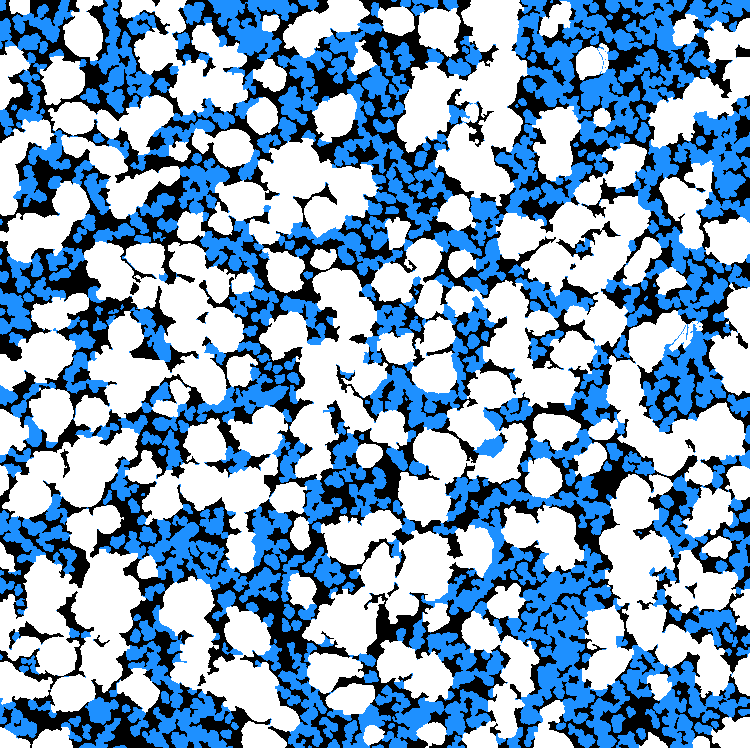
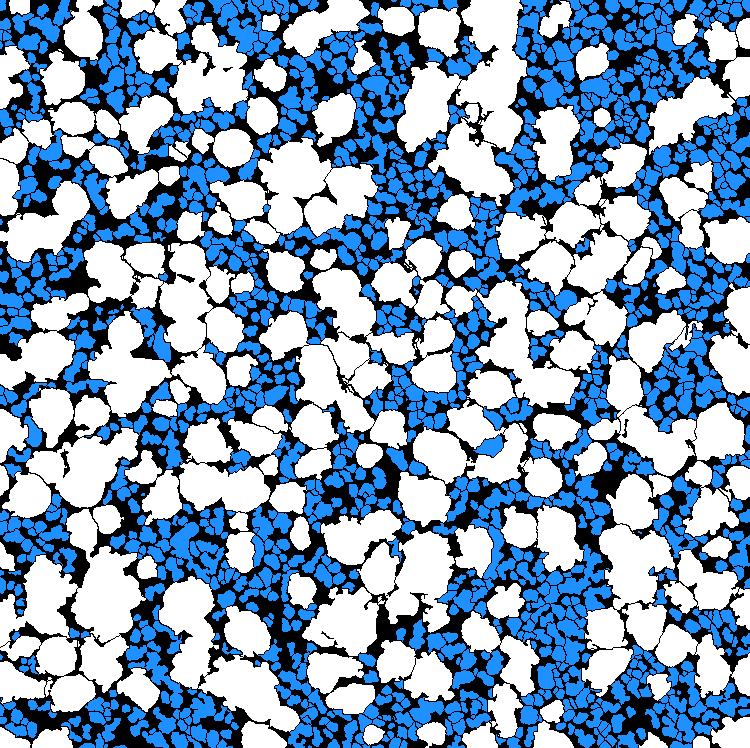
Fix shaded faces in sample3's key and draw a pore line between particles

diff --git a/docs/dino-features.md b/docs/dino-features.md
@@ -71,7 +71,7 @@ The seeds come from brightness, so particle/pore/binder favour brightness featur
 |---|---|---|
 | 1 | particle (white), pore (black), crack (red); every pixel scored | `make_truth.py`, then binder merged into pore; unscored specks under 30 px take their nearest label, wider unscored areas split at the particle edge level (141.5). Cracks are then thinned to pixels at least 12 gray levels darker than a 5 px closing of the image; crack lines lying mostly along pore are pore. Thin pore (half-width ≤ 2.5 px) more than 3 px inside a particle outline (4 px closing) is crack. Crack lines of at least 10 px within 2 px of a large particle's convex outline (pieces of 2 000 px or more) that open onto pore are gaps between particles and become pore. Second pass with sample2's gap tools (cracks counted as part of their particle for connectivity): line-filter cut with thresholds scaled by the particle–pore contrast (×1.68), rim revert, pruning and thinning; 12 hand cuts between big particles and the grain clusters touching them; then the faintest 48 of 154 added seams checked by eye and 25 joined again (502 → 619 pieces) |
 | 2 | particle (white), pore (black), crack (red); every pixel scored | `make_truth.py --scale .5 --split`, then sample1's clean-up (binder into pore, unscored filled at edge level 109.5, cracks thinned), then only long line-shaped cracks kept and each of the remaining 19 checked by eye: 6 kept. Particle outlines were then redrawn from the image: luminance smoothed at σ 0.7 above 109.5, holes up to 6 px filled, specks up to 4 px dropped; touching particles were split along thin dark lines found by an oriented line filter (hysteresis 12 / 5, see `study.md`), cuts that separate nothing or that only shave particle rims were undone, and 25 faint gaps were cut by hand along the darkest path, piece by piece. Gaps were then thinned to their darkest separating line (brightest gap pixels given back while they join nothing), and dark lines inside one particle (line score above 9, at least 2 px from the outline, 6 px long) became crack after a check by eye: 27 of 59 kept. Finally every added seam between two pieces was ranked by contrast (particle beside it minus the seam) and the 120 faintest were checked by eye: 49 with no visible gap were joined again |
-| 3 | large particle (white), small particle (blue), pore (black); every pixel scored | Background-corrected foreground (smoothed level minus a 5th-percentile background over ~60 px, above 18), holes and specks up to 20 / 6 px filled; dark seams cut with the line filter (score > 24 reaching pore, > 12 joined to it); large where a disk of radius 7 fits after the cut, regrown 4 px inside the particle; seam pixels take the nearer side; 3 shaded faces joined to their particle by hand. Differs from `eval/truth/sample3_size_mask.png`, which the evaluation tables still use |
+| 3 | large particle (white), small particle (blue), pore (black); every pixel scored | Background-corrected foreground (smoothed level minus a 5th-percentile background over ~60 px, above 18), holes and specks up to 20 / 6 px filled; dark seams cut with the line filter (score > 24 reaching pore, > 12 joined to it); large where a disk of radius 7 fits after the cut, regrown 4 px inside the particle; seam pixels take the nearer side; shaded faces of large particles joined to them after a check by eye (3, then 39 of 91 candidates); finally a 1 px pore line between every two particles (small: seam-cut pieces of 8 px or more; large: pieces of 150 px or more after cutting along line score > 12; other pixels take the nearest piece of their class). Differs from `eval/truth/sample3_size_mask.png`, which the evaluation tables still use |
 | 4 | particle, pore, crack | `make_sample4_truth.py`: polished graphite sections; surfaces below the section plane, marked by hand boxes, are pore |
 
 Since then `make_truth.py` turns filled cracks outside deep particle interiors into pore. The tables below still use truth v2 in `eval/truth/`.

diff --git a/docs/study.md b/docs/study.md
@@ -94,3 +94,6 @@ def line_score(img, L=9, off=2.5, n=16):
 - **Inscribed radii form two groups:** about 3–6 px for small grains and 9–20 px for large particles. Radius 7 sits in the gap between them and caught the mid-size round particles that radius 8 missed.
 - **Did not work:** joining small pieces with a long contact to a large particle swallowed whole grain clusters. Regrowing large particles through low-score pixels added only rim pixels.
 - **Remaining error:** the shaded side faces of large particles, which a seam separates from the lit top, come out small. Three were fixed by hand.
+- **Shaded faces, second pass:** candidates are seam-cut small pieces of 25–600 px whose outline touches a large particle along 25% or more of its length. 39 of 91 were faces. The rest were grains sitting against the particle.
+- **One-pixel lines between particles:** give every particle an id, then set to pore each pixel whose right or lower neighbour has a different id. For small grains, the id is the seam-cut component (8 px or more). For large particles, cut along line score > 12 and keep pieces of 150 px or more. All other pixels take the nearest id of their own class.
+- **Splitting touching large particles:** at a cut of 9 the lines ran through cracks inside a particle, and at 14 touching pairs stayed merged. A marker watershed on the distance map missed stacked agglomerates and drew lines across faces.
